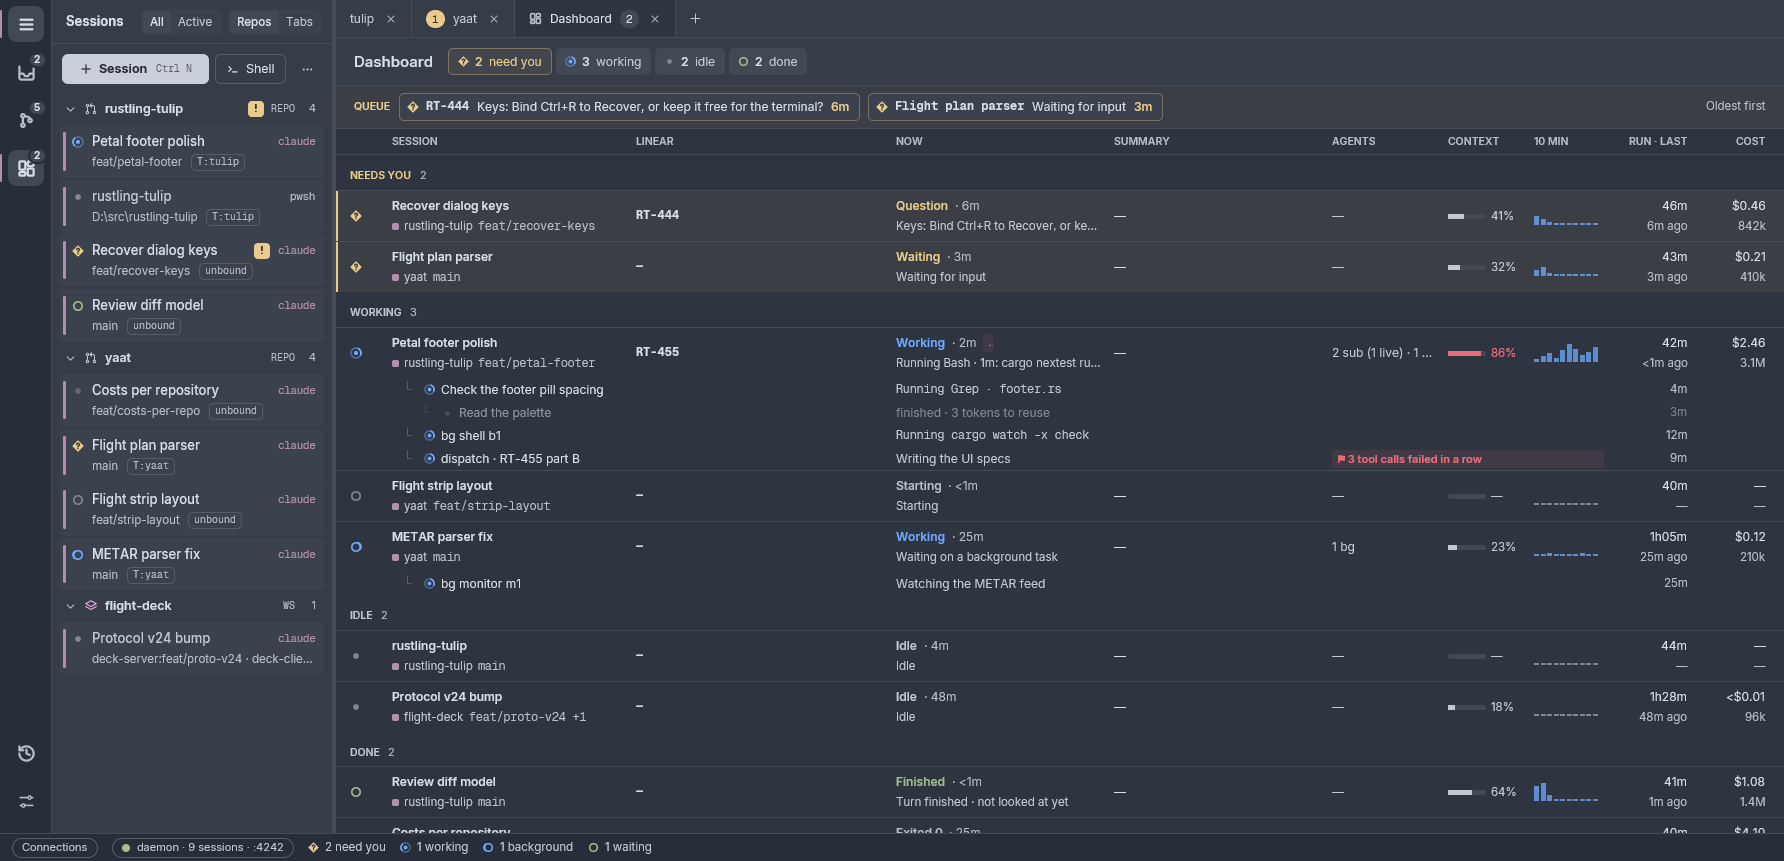
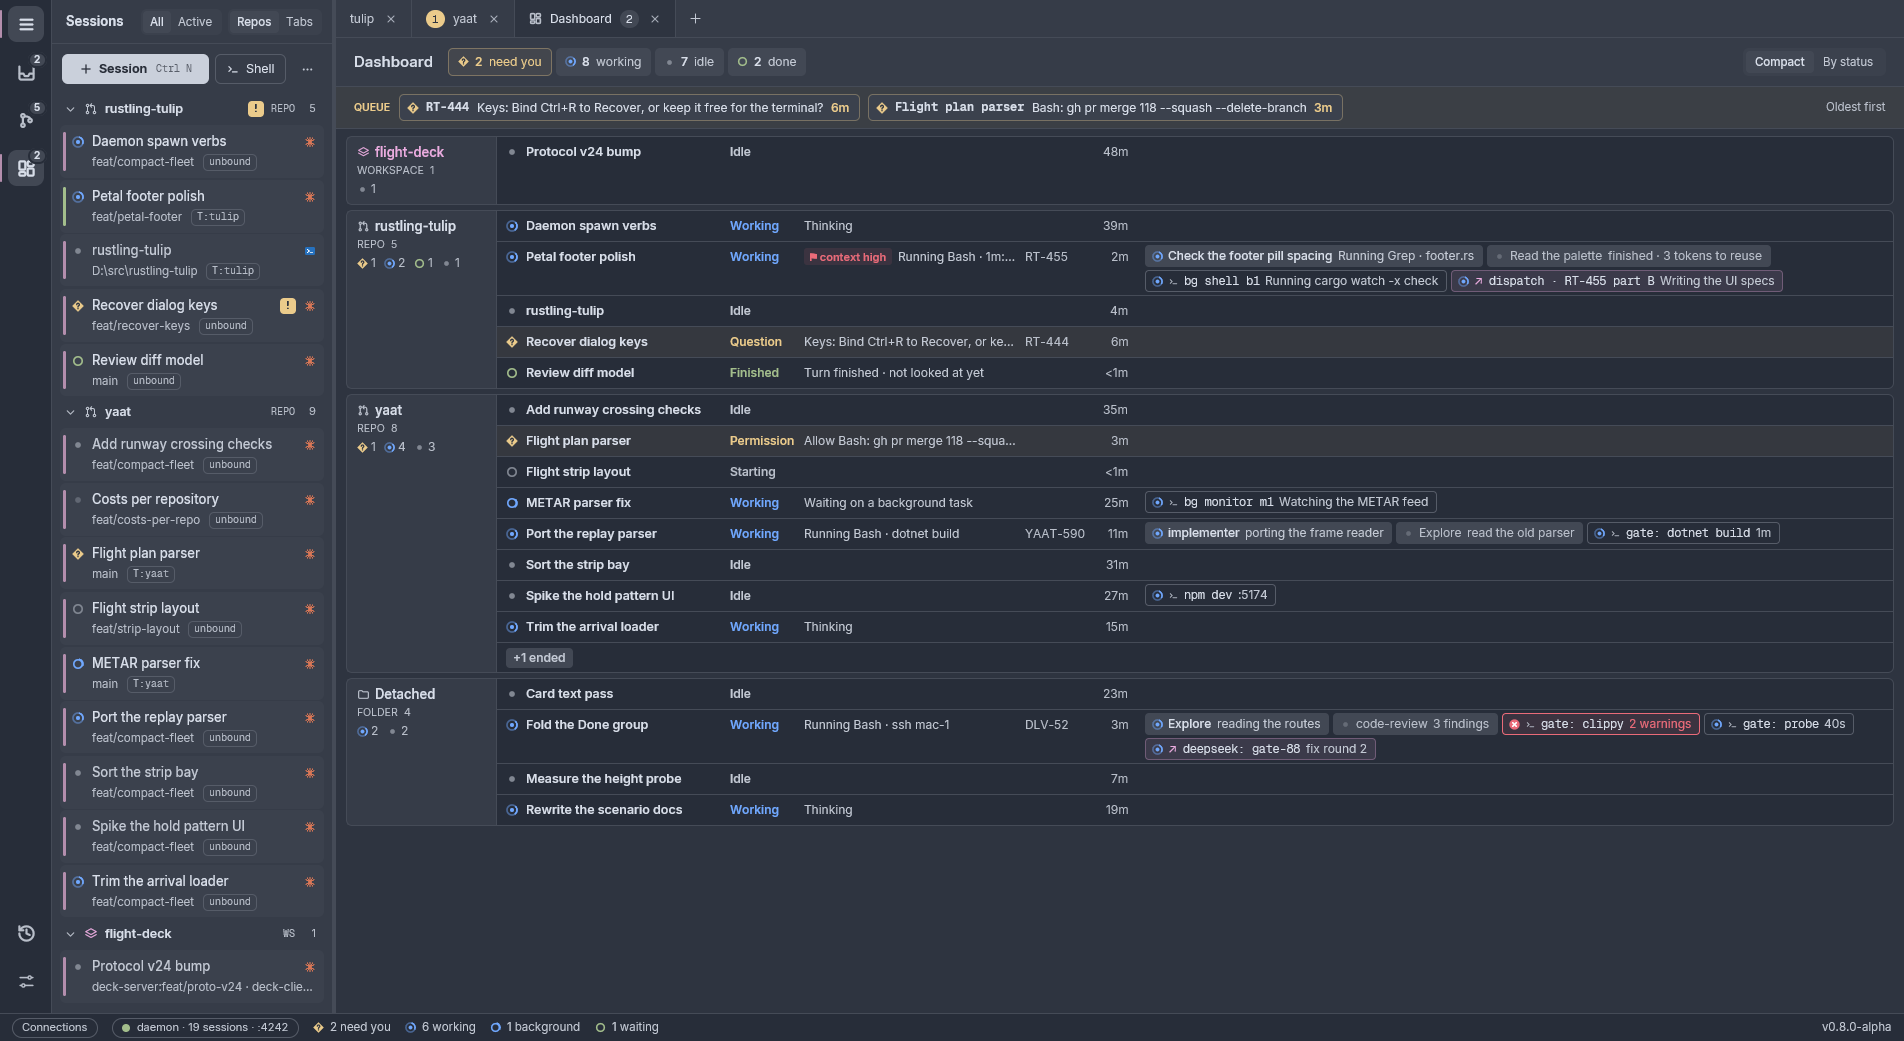
docs: refresh the README for v0.8.0-alpha

diff --git a/README.md b/README.md
@@ -14,9 +14,12 @@ It is alpha software, Windows only for now.
 - Group repos into a workspace: one session works across all of them, with their relative paths kept. A VS Code `.code-workspace` file next to a repo is offered as a workspace.
 - Every session's status has its own shape and colour: working, asking you something, finished while you were away, idle, or idle with background work still running.
 - Tab pills and, on Windows, a badge on the taskbar button count the sessions that need you, and show nothing at zero; Settings can show busy or idle counts instead.
-- The Needs You panel lists every session waiting on you, longest wait first, with what each asks: its question, the tool it wants to run, or the plan to approve. A Windows notification fires when a session needs you or finishes (skipped when you are already looking at it), and a sound of your choice plays when one needs you: the bundled chime, your own .wav or .ogg, or none.
-- Each finished turn of a Claude session gets a one-line summary, kept across restarts, and the Finished notification is worded from it.
-- The Dashboard tab, opened from the activity rail, lists every agent session by status: what each is doing now, its context, recent activity, cost and running subagents, with a queue of the sessions waiting on you.
+- The Needs You panel lists every session waiting on you, longest wait first, with what each asks: its question, the tool it wants to run, or the plan to approve. A notification fires when a session needs you or finishes (skipped when you are already looking at it), after a wait you choose for Finished.
+- On Windows, notifications can be the app's own toasts, which answer a prompt or go to its pane without taking focus. Each kind plays its own sound, silent during Do Not Disturb: a chime from the bundled list, your own .wav or .ogg, or none.
+- Turn on session summaries in Settings › Dashboard and each finished turn of a Claude session gets a one-line summary, kept across restarts, with a daily cap on what they spend.
+- The Dashboard tab, opened from the activity rail, opens on a Compact view of every running agent by repo, with its state, work and subagents and no scrolling. Its By status view adds context, recent work, cost, a two-hour activity bar and the Linear issue named in each session's branch, with a drawer per session.
+- Answer a session's question or permission prompt from the Dashboard with one click, or jump to its pane; the header counts today's cost, tokens and commits across every session.
+- `rustling-tulipd` drives sessions from a shell or a script: `sessions`, `read`, `spawn`, `send`, `kill`, `wait` and `watch`, each with `--json`.
 - Open a repo's, workspace's or tab's menu from the keyboard with Shift+F10 or the Menu key.
 - Tabs and split panes: drag a pane or a sidebar session onto a pane to split, swap or move it, rearrange a tab into a grid, and undo a closed tab or a moved pane.
 - The sidebar groups sessions by repo or by tab, in Comfortable or Compact rows, and can show every session under a repo, only the busy ones, or just a count.
@@ -28,7 +31,7 @@ It is alpha software, Windows only for now.
 - When Claude exits, its pane stays a working shell, and its Chat and Summary views turn off until Claude starts again.
 - Secret environment values you give a session are stored in Windows Credential Manager, never in a settings file.
 
-![The Dashboard tab: sessions grouped as Needs you, Working, Idle and Done, each with what it is doing now, its context, recent activity, cost and running subagents](docs/images/dashboard.png)
+![The Dashboard tab's Compact view: a queue of the sessions waiting on you, then every session by repo with its state, what it is doing now and its running subagents and background work](docs/images/dashboard.png)
 
 ### Chat and summary views
 
@@ -113,6 +116,28 @@ It is alpha software, Windows only for now.
 3. The installer is not code-signed yet, so Windows SmartScreen warns on first run: choose More info, then Run anyway.
 
 Remote access over Tailscale needs [Tailscale](https://tailscale.com/) on both PCs, signed in to the same tailnet, with HTTPS certificates turned on for it. Remote access over SSH needs only an SSH login to the other PC.
+
+## What's new in v0.8.0-alpha
+
+- The Dashboard shows every running agent at a glance and answers their questions and permission prompts with one click.
+- On Windows, the app's own toasts answer a prompt or go to its pane without taking focus, with softer chimes.
+- `rustling-tulipd` drives sessions from a shell: list, spawn, send, read, wait and watch.
+- Sessions run as administrator are kept apart: programs without administrator rights can no longer start or reach them.
+
+The full list is in the [release notes](https://github.com/leftos/rustling-tulip/releases/tag/v0.8.0-alpha).
+
+## What's new in v0.7.2-alpha
+
+- A Finished toast no longer fires when a Stop hook sends the agent back to work; the session stays Working until its hooks finish.
+
+The full list is in the [release notes](https://github.com/leftos/rustling-tulip/releases/tag/v0.7.2-alpha).
+
+## What's new in v0.7.1-alpha
+
+- Finished toasts no longer fire after nearly every tool call while Claude works through a task-list item.
+- A Finished toast now waits 5 seconds and is dropped if the session starts working again.
+
+The full list is in the [release notes](https://github.com/leftos/rustling-tulip/releases/tag/v0.7.1-alpha).
 
 ## What's new in v0.7.0-alpha
 
